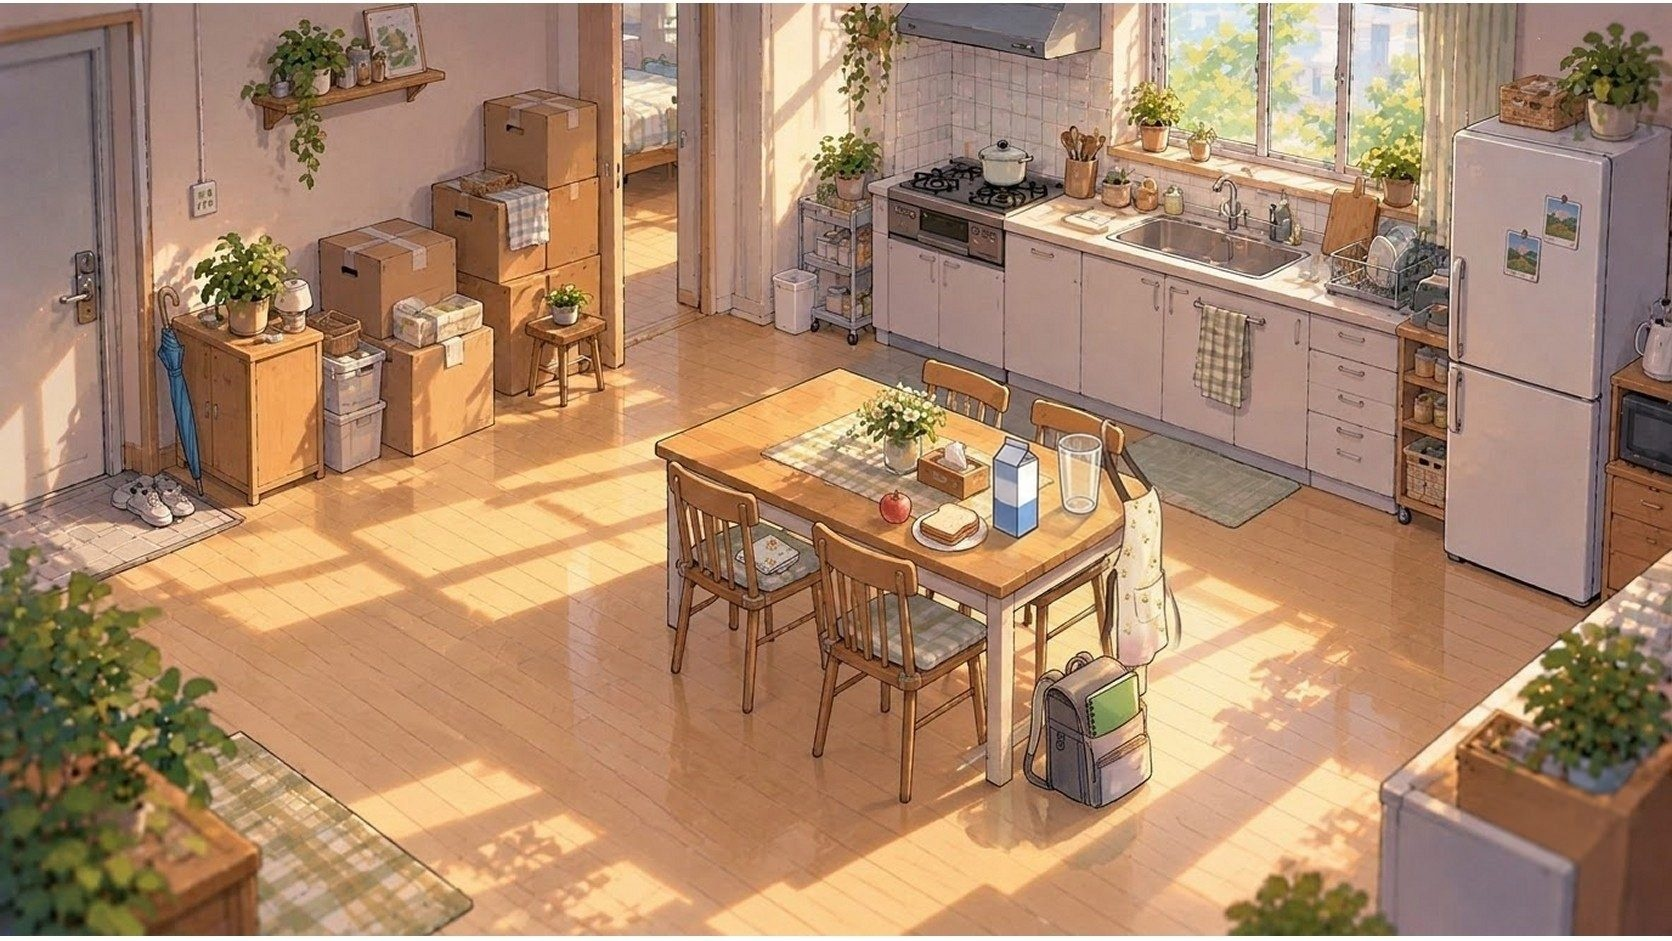
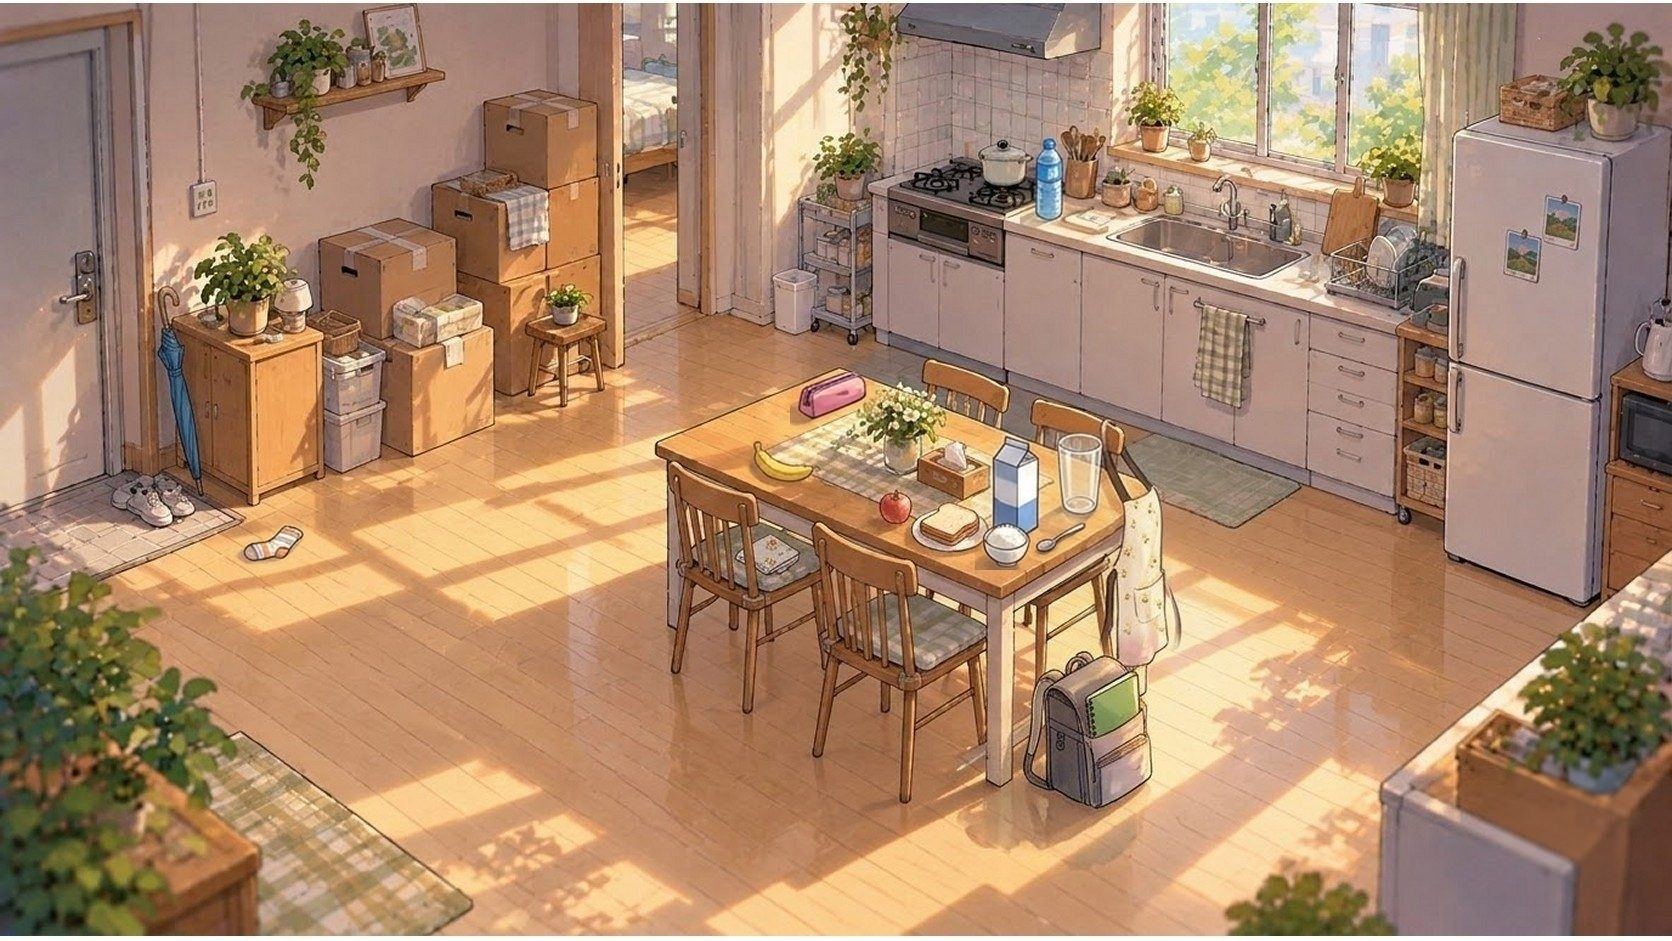
아침 집: 16일치 물건(물병·필통·바나나·밥그릇·숟가락·양말)을 그림에 그려 넣고, 날마다 따로 얹던 물건 그림 뺌, 17개 물건 누르는 자리 맞춤(식탁 돋보기 판 없앰)

diff --git a/index.html b/index.html
@@ -119,14 +119,14 @@ body,button{word-break:keep-all;overflow-wrap:break-word}
 <div id="fader"></div>
 <script>
 // same address, newest version: if the page this phone has kept is older than the one online, fetch the new one and reopen
-const BUILD='1111140909';
+const BUILD='1111141633';
 try{fetch(location.pathname,{cache:'no-store'}).then(r=>r.text()).then(t=>{const m=t.match(/const BUILD='(\d+)'/);if(m&&m[1]!==BUILD&&sessionStorage.getItem('upd')!==m[1]){sessionStorage.setItem('upd',m[1]);fetch(location.pathname,{cache:'reload'}).then(()=>location.reload())}}).catch(()=>{})}catch(e){}
 </script>
-<script src="i18n.js?v=1111140909"></script>
-<script src="i18n_prologue_v2.js?v=1111140909"></script>
-<script src="day2/i18n_engine.js?v=1111140909"></script>
-<script src="day2/data.js?v=1111140909"></script>
-<script src="day3/data.js?v=1111140909"></script>
+<script src="i18n.js?v=1111141633"></script>
+<script src="i18n_prologue_v2.js?v=1111141633"></script>
+<script src="day2/i18n_engine.js?v=1111141633"></script>
+<script src="day2/data.js?v=1111141633"></script>
+<script src="day3/data.js?v=1111141633"></script>
 <script>
 // ---------- data ----------
 const MW=1672,MH=941,KID=180;
@@ -573,37 +573,37 @@ function pickHero(){const m=document.getElementById('modal'),c=document.getEleme
  c.innerHTML=`<h2>${tr('전학생 반장되기')}</h2><p>${tr('한국말이 아직 서툰 전학생,<br>반장 선거에 나가다.')}</p><p style="margin-top:14px">${tr('누구로 할까요?')}</p>${(()=>{const s=loadSave();return s&&s.day>=2&&s.mode===UI+'-'+LANG?`<p><button class="big" id="cont">${tr('{n}일차부터 이어 하기').replace('{n}',s.day)}</button></p>`:''})()}<div class="pick heroes"><button data-h="hero_f"><img src="faces/hero_f_smile.jpg" alt="여자 주인공">${heroName(1)}</button><button data-h="hero_m"><img src="faces/hero_m_smile.jpg" alt="남자 주인공">${heroName(0)}</button></div>`;
  m.classList.add('on');{const cb=document.getElementById('cont');if(cb)cb.onclick=()=>{const s=loadSave();HERO=s.hero;Object.assign(HEART,s.heart||{});(s.found||[]).forEach(k=>FOUND.add(k));HEART_D1={...HEART};chime();(typeof contGame==='function'?contGame(s):startDay(Math.min(s.day,Object.keys(window.D3||{}).length?3:2)))}}c.querySelectorAll('.pick button').forEach(b=>b.onclick=()=>{HERO=b.dataset.h;m.classList.remove('on');chime();bgm('day');load('home_am');say([['nar','','이사 온 다음 날 아침. 아직 풀지 못한 상자들이 쌓여 있다.'],['think','sad','(오늘부터 새 학교야. 여기 말도 아직 서툰데…….)'],['think','smile','({m}한테 인사하고 학교 가야지.)']],morning)})}
 </script>
-<script src="day2/engine.js?v=1111140909"></script>
-<script src="day2/ep_minho.js?v=1111140909"></script>
-<script src="day2/meet.js?v=1111140909"></script>
-<script src="day2/ep_sua.js?v=1111140909"></script>
-<script src="day2/ep_hangyeol.js?v=1111140909"></script>
-<script src="day2/ep_siwoo.js?v=1111140909"></script>
-<script src="day2/ep_haram.js?v=1111140909"></script>
-<script src="day2/ep_jiho.js?v=1111140909"></script>
-<script src="day2/ep_hyeeun.js?v=1111140909"></script>
-<script src="day2/ep_haneul.js?v=1111140909"></script>
-<script src="day2/ep_junho.js?v=1111140909"></script>
-<script src="day2/ep_yuna.js?v=1111140909"></script>
-<script src="day2/ep_yena.js?v=1111140909"></script>
-<script src="day2/ep_haeun.js?v=1111140909"></script>
-<script src="day2/ep_youngmin.js?v=1111140909"></script>
-<script src="day2/ep_seah.js?v=1111140909"></script>
-<script src="day2/ep_jihoon.js?v=1111140909"></script>
-<script src="words_ja_ru.js?v=1111140909"></script>
-<script src="day2/mybag.js?v=1111140909"></script>
-<script src="day2/wordpics.js?v=1111140909"></script>
-<script src="day2/spots.js?v=1111140909"></script>
-<script src="day2/textfit.js?v=1111140909"></script>
-<script src="day2/tester.js?v=1111140909"></script>
-<script src="day2/ux.js?v=1111140909"></script>
-<script src="day2/tapword.js?v=1111140909"></script>
-<script src="day2/review.js?v=1111140909"></script>
-<script src="day2/plane.js?v=1111140909"></script>
-<script src="day2/bubble.js?v=1111140909"></script>
-<script src="day2/ep_ending.js?v=1111140909"></script>
-<script src="day2/ending.js?v=1111140909"></script>
-<script src="day2/stats.js?v=1111140909"></script>
+<script src="day2/engine.js?v=1111141633"></script>
+<script src="day2/ep_minho.js?v=1111141633"></script>
+<script src="day2/meet.js?v=1111141633"></script>
+<script src="day2/ep_sua.js?v=1111141633"></script>
+<script src="day2/ep_hangyeol.js?v=1111141633"></script>
+<script src="day2/ep_siwoo.js?v=1111141633"></script>
+<script src="day2/ep_haram.js?v=1111141633"></script>
+<script src="day2/ep_jiho.js?v=1111141633"></script>
+<script src="day2/ep_hyeeun.js?v=1111141633"></script>
+<script src="day2/ep_haneul.js?v=1111141633"></script>
+<script src="day2/ep_junho.js?v=1111141633"></script>
+<script src="day2/ep_yuna.js?v=1111141633"></script>
+<script src="day2/ep_yena.js?v=1111141633"></script>
+<script src="day2/ep_haeun.js?v=1111141633"></script>
+<script src="day2/ep_youngmin.js?v=1111141633"></script>
+<script src="day2/ep_seah.js?v=1111141633"></script>
+<script src="day2/ep_jihoon.js?v=1111141633"></script>
+<script src="words_ja_ru.js?v=1111141633"></script>
+<script src="day2/mybag.js?v=1111141633"></script>
+<script src="day2/wordpics.js?v=1111141633"></script>
+<script src="day2/spots.js?v=1111141633"></script>
+<script src="day2/textfit.js?v=1111141633"></script>
+<script src="day2/tester.js?v=1111141633"></script>
+<script src="day2/ux.js?v=1111141633"></script>
+<script src="day2/tapword.js?v=1111141633"></script>
+<script src="day2/review.js?v=1111141633"></script>
+<script src="day2/plane.js?v=1111141633"></script>
+<script src="day2/bubble.js?v=1111141633"></script>
+<script src="day2/ep_ending.js?v=1111141633"></script>
+<script src="day2/ending.js?v=1111141633"></script>
+<script src="day2/stats.js?v=1111141633"></script>
 <script>
 // the goal shows big for a few seconds, then folds into a small pill (tap it to open it again)
 {const g=document.getElementById('goal');let t=null;const big=()=>{g.classList.remove('mini');clearTimeout(t);t=setTimeout(()=>g.classList.add('mini'),4000)};

diff --git a/day2/engine.js b/day2/engine.js
@@ -79,7 +79,7 @@ let DAY=1,PICKS=[],D2CHOICE={};
 function setDay(n){DAY=n;const N=NATIVE_BY[n]||{},Z=ZOOMS_BY[n]||{};for(const k in NATIVE)delete NATIVE[k];Object.assign(NATIVE,N);for(const k in ZOOMS)delete ZOOMS[k];Object.assign(ZOOMS,Z);
  D2PLACE=PLACE_BY[n]||PLACE_BY[2];for(const m of ['class','hall','field','cafe'])MAPS[m].img2=(MAP_DONE[n]||[]).includes(m)?`maps/${m}${n}.jpg`:undefined;
  if(MAPS.cafe.img2)MAPS.cafe.img2='maps/cafe2_lunch.jpg';// lunchtime: children from other classes eat at the tables
- MAPS.home_am.img2='maps/home_am2.jpg';MAPS.home_pm.img2='maps/home_pm2.jpg';ZOOMS.home_am=[[850,470,1060,560]];ZOOMS.home_pm=[[870,470,1040,545]]}
+ MAPS.home_am.img2='maps/home_am2.jpg';MAPS.home_pm.img2='maps/home_pm2.jpg';ZOOMS.home_am=[];/* (11/11 owner) table things are drawn big enough now: each is tapped directly, no 🔍 tray */ZOOMS.home_pm=[[870,470,1040,545]]}
 const MAP_DONE={2:['class','hall','field','cafe']};
 function saveDay(){try{localStorage.setItem('haru_save',JSON.stringify({day:DAY,hero:HERO,heart:HEART,found:[...FOUND],mode:UI+'-'+LANG}))}catch(e){}}
 function loadSave(){try{return JSON.parse(localStorage.getItem('haru_save')||'null')}catch(e){return null}}
@@ -108,7 +108,9 @@ function startDay(n){const m=document.getElementById('modal');m.classList.remove
   find(M.k,()=>{TODAY.add(M.k);say(M.after,()=>{stage='d2_leave';setGoal('현관으로 나가 학교 가기','door')})},'「{x}」 찾기'))})}
 function startDay2(){startDay(2)}
 // home from Day 2 on: the same things always lie in the same places (drawn into maps/home_am2.jpg, home_pm2.jpg); each day asks for a different one
-const HOME_NATIVE={home_am:[['handkerchief',770,550,28],['apron',1140,560,55],['apple',895,508,22],['tissue',950,470,26],['bread',950,528,26],['cup',1081,474,24],['milk',1016,488,28],['umbrella',180,400,40],['notebook',1115,700,24],['bag',1085,745,45]],
+const HOME_NATIVE={home_am:[['handkerchief',770,550,28],['apron',1140,560,55],['apple',895,508,22],['tissue',950,470,26],['bread',950,528,26],['cup',1081,474,24],['milk',1016,488,28],['umbrella',180,400,40],['notebook',1115,700,24],['bag',1085,745,45],
+  // (11/11 owner) every morning errand is drawn into home_am2 now (no item laid on top any more)
+  ['water_bottle',1048,178,30],['pcase',835,398,28],['banana',780,469,26],['bowl',1006,543,22],['spoon',1052,540,18],['sock',272,546,24]],
  home_pm:[['handkerchief',775,555,28],['apron',1075,425,40],['cup',1060,495,24],['milk',1017,462,28],['apple',957,508,16],['bread',985,522,24],['umbrella',180,400,40],['notebook',1130,640,24],['bag',1120,725,45]]};
 function placeD2Item(){if(!(DAY>=2&&(MAP==='home_am'||MAP==='home_pm')))return;OBJ[MAP]=KITCHEN_OBJ.concat(HOME_NATIVE[MAP])}
 // ---- school ----

diff --git a/day2/meet.js b/day2/meet.js
@@ -61,8 +61,8 @@ function goPlacesToday(){const ids=new Set();for(const f of D2IDS){const e=epNex
 // no second copy laid on top: every thing already drawn (HOME_NATIVE: apple, bread, cup, umbrella, notebook, bag) is found where it is drawn.
 // Day 9 is the rainy day at the gate (Minho, Hangyeol, Seah) → umbrella. Things not drawn on the home map are laid where they would be.
 const MORNING_BY={4:'apple',5:'bread',6:'cup',7:'water_bottle',8:'pcase',9:'umbrella',10:'sock',11:'banana',12:'milk',13:'spoon',14:'shoes',15:'tissue',16:'bag'};
-const MORNING_LAY={water_bottle:[1190,248,34],pcase:[838,512,46],sock:[205,540,36],banana:[1058,558,46],spoon:[1052,556,60]};
-const MORNING_EXTRA={13:[['bowl',995,570,54]]};// (11/11 owner) day 13 things lay on the drawn apple, bread, milk and cup: spoon and bowl go to the empty front-right of the table, no second cup (one is drawn)// (owner 11/08) the spoon is not alone on the table: breakfast things around it
+const MORNING_LAY={};// (11/11 owner) all drawn into maps/home_am2.jpg (HOME_NATIVE): nothing laid on top
+const MORNING_EXTRA={};// (11/11 owner) day 13 things lay on the drawn apple, bread, milk and cup: spoon and bowl go to the empty front-right of the table, no second cup (one is drawn)// (owner 11/08) the spoon is not alone on the table: breakfast things around it
 const MORNING_KEYS=Object.values(MORNING_BY);const MORNING_SAID=new Set(['apple','bread','cup','umbrella','bag','handkerchief','apron']);
 function morningOf(n){if(MORNING[n])return MORNING[n];const k=MORNING_BY[n]||MORNING_KEYS[(n-4)%MORNING_KEYS.length];
  return{k,lay:MORNING_LAY[k]?[[k,...MORNING_LAY[k],null,'stay']].concat((MORNING_EXTRA[n]||[]).map(t=>[...t,null,'stay'])):null,open:[['nar','','아침.'],['mom','smile',`{@${k}} 좀 찾아 줄래?`]],after:[['mom','laugh','고마워!'],['me','smile','…응. 다녀올게.'],['mom','smile','오늘도 저녁에 이야기 들려줘.']]}}
